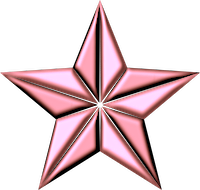
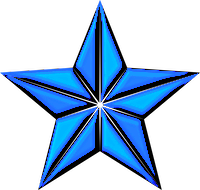
Add files via upload

diff --git a/main.css b/main.css
@@ -780,27 +780,27 @@ input[type=submit]:hover {
 }
 
 .website {
-    color: white;
+    color: #0ce;
     width: 75%;
     font-size: 25px;
-    background: #600;
+    background: #000;
     margin: -15px auto;
-    border-radius: 20px;
     padding: 20px;
-    box-shadow: 2px 4px 6px #000;
-    border: 2px solid #000;
+    border: 5px double #b00;
+    border-radius: 15px;
 }
 
 .website h1{
-        font-size: 34px;
-        text-align: center;
-        background: transparent;
-        box-shadow: none;
-        padding: 10px 0 0;
-        text-decoration: underline;
-        text-shadow: 2px 2px 0px #000;
-        text-underline-position: under;
-    }
+    color: #d00;
+    font-size: 34px;
+    text-align: center;
+    background: transparent;
+    box-shadow: none;
+    padding: 10px 0 0;
+    text-decoration: underline;
+    text-shadow: 1px 1px 0px #fff;
+    text-underline-position: under;
+}
 
 .website h2{
     font-family: 'federant';
@@ -811,7 +811,39 @@ input[type=submit]:hover {
     width: 100%;
     display: flex;
     justify-content: center;
-    margin-bottom: 50px;
+    margin-bottom: 100px;
+}
+
+.stars{
+    width: 100%;
+    display: flex;
+    flex-direction: row;
+    align-items: center;
+    justify-content: center;
+    float: left;
+    margin-top: -70px;
+}
+
+.star-1, .star-3{
+    width: 60px;
+    height: 60px;
+    margin-top: 20px;
+}
+
+.star-2{
+    width: 75px;
+    height: 75px;
+    z-index: 9;
+}
+
+.star-3{
+    margin-left: -25px;
+    transform: rotate(25deg)
+}
+
+.star-1{
+    margin-right: -25px;
+    transform: rotate(-25deg)
 }
 
 .star{
@@ -848,7 +880,7 @@ input[type=submit]:hover {
 
 .items{
     text-align: left;
-    margin: 50px auto;
+    margin: 50px auto 75px;
     width: 75%;
     background: #046;
     padding: 10px 25px;
@@ -1109,6 +1141,8 @@ h6{
     .services{
         margin: 175px 0 75px 0;
     }
+    
+    
 }
 
 /*=======================================*/
@@ -1125,6 +1159,36 @@ h6{
     #Btn,
     article {
         display: none;
+    }
+    
+    .plans{
+        width: 90%;
+        margin: auto;
+    }
+    .prime{
+        margin-bottom: 100px;
+    }
+    
+    .stars{
+        margin-top: -60px;
+    }
+    
+    .star-1, .star-3{
+        width: 40px;
+        height: 40px;
+    }
+    
+    .star-2{
+        width: 50px;
+        height: 50px;
+    }
+    
+    .star-1{
+        margin-right: -15px;
+    }
+    
+    .star-3{
+        margin-left: -15px;
     }
     
     .contentBox{
@@ -1274,7 +1338,7 @@ h6{
         box-shadow: none;
         padding: 20px 0;
         text-decoration: underline;
-        text-shadow: 2px 2px 0px #000;
+        text-shadow: .5px .5px 0px #fff;
         text-underline-position: under;
     }
     
@@ -1376,6 +1440,10 @@ h6{
         box-shadow: none;
     }
     
+    .cafe{
+        margin-bottom: 50px;
+    }
+    
     #Btn {
         font-size: 8px;
         width: 100px;
@@ -1458,7 +1526,7 @@ h6{
 
 @media (min-width: 1000px) and (max-width: 1200px) {
     li{
-        margin: 0 20px;
+        margin: 0 15px;
         font-size: 18px;   
     }
     
@@ -1477,3 +1545,18 @@ h6{
         margin-bottom: 50px;
     }
 }
+
+@media (min-width: 1200px){
+    li{
+        margin-left: 28px;
+    }
+}
+
+@media (min-width: 1300px){
+    li a{
+        margin-left: 28px;
+    }
+}
+
+
+    

diff --git a/index.html b/index.html
@@ -8,8 +8,8 @@
     <meta property="og:image:type" content="image/png" />
     <meta property="og:image:width" content="400" />
     <meta property="og:image:height" content="300" />
-    <meta property="og:image" content="https://i.ibb.co/RCjm4by/BattBros.png" />
-    <meta property="og:image:secure_url" content="https://i.ibb.co/RCjm4by/BattBros.png" />
+    <meta property="og:image" content="https://i.ibb.co/cCVS5T1/Menu-Logo-Grdnt.png" />
+    <meta property="og:image:secure_url" content="https://i.ibb.co/cCVS5T1/Menu-Logo-Grdnt.png" />
     <meta name="keywords" content="Web Development">
     <meta name="viewport" content="width=device-width, initial-scale=1.0" />
     <meta charset="utf-8">
@@ -18,7 +18,7 @@
     <meta name="description" content="Online Presence Management">
     <link rel="stylesheet" href="main.css">
     <link rel="shortcut icon" type="image/png" href="MENU=.png">
-    <link href="https://fonts.googleapis.com/css?family=Federant|Akronim|Kaushan+Script|Fugaz+One|Righteous|Orbitron|Kanit|Quintessential" rel="stylesheet">
+    <link href="https://fonts.googleapis.com/css?family=Federant|Lexend+Deca|Kaushan+Script|Fugaz+One|Righteous|Orbitron|Kanit|Quintessential" rel="stylesheet">
     <meta name="viewport" content="width=device-width, initial-scale=1">
     <link rel="stylesheet" href="https://unpkg.com/aos@next/dist/aos.css" />
 </head>
@@ -34,7 +34,7 @@
 
     <div id="mySidenav" class="sidenav">
         <a href="javascript:void(0)" class="closebtn" onclick="closeNav()">&#10754;</a>
-        <a style="text-decoration: underline" href="index.html">Home</a>
+        <a style="text-decoration: underline; text-underline-position: under;" href="index.html">Home</a>
         <a href="services.html">Services</a>
         <a href="contact.html">Contact</a>
     </div>
@@ -60,7 +60,7 @@
 
         <div data-aos="fade-right" data-aos-duration="800" data-aos-anchor-placement="top-bottom" class="logo"><img src="MENU.png"></div>
 
-        <button id="Btn" data-aos="fade-down" data-aos-duration="800" data-aos-anchor-placement="top-bottom"><a href="#openModal99">Free Consultation</a></button>
+        <button id="Btn" data-aos="fade-down" data-aos-duration="800" data-aos-anchor-placement="top-bottom"><a href="tel:17573255866">Free Consultation</a></button>
         
         <ul>
             

diff --git a/contact.html b/contact.html
@@ -8,8 +8,8 @@
     <meta property="og:image:type" content="image/png" />
     <meta property="og:image:width" content="400" />
     <meta property="og:image:height" content="300" />
-    <meta property="og:image" content="https://i.ibb.co/RCjm4by/BattBros.png" />
-    <meta property="og:image:secure_url" content="https://i.ibb.co/RCjm4by/BattBros.png" />
+    <meta property="og:image" content="https://i.ibb.co/cCVS5T1/Menu-Logo-Grdnt.png" />
+    <meta property="og:image:secure_url" content="https://i.ibb.co/cCVS5T1/Menu-Logo-Grdnt.png" />
     <meta name="keywords" content="Web Development">
     <meta name="viewport" content="width=device-width, initial-scale=1.0" />
     <meta charset="utf-8">
@@ -18,7 +18,7 @@
     <meta name="description" content="Online Presence Management">
     <link rel="stylesheet" href="main.css">
     <link rel="shortcut icon" type="image/png" href="MENU=.png">
-    <link href="https://fonts.googleapis.com/css?family=Federant|Akronim|Kaushan+Script|Fugaz+One|Righteous|Orbitron|Kanit|Quintessential" rel="stylesheet">
+    <link href="https://fonts.googleapis.com/css?family=Federant|Lexend+Deca|Kaushan+Script|Fugaz+One|Righteous|Orbitron|Kanit|Quintessential" rel="stylesheet">
     <meta name="viewport" content="width=device-width, initial-scale=1">
     <link rel="stylesheet" href="https://unpkg.com/aos@next/dist/aos.css" />
 </head>
@@ -36,7 +36,7 @@
         <a href="javascript:void(0)" class="closebtn" onclick="closeNav()">&#10754;</a>
         <a href="index.html">Home</a>
         <a href="services.html">Services</a>
-        <a style="text-decoration: underline" href="contact.html">Contact</a>
+        <a style="text-decoration: underline; text-underline-position: under;" href="contact.html">Contact</a>
     </div>
 
     <script>
@@ -59,6 +59,8 @@
         </div>
 
         <div data-aos="fade-right" data-aos-duration="800" data-aos-anchor-placement="top-bottom" class="logo"><img src="MENU.png"></div>
+        
+        <button id="Btn" data-aos="fade-down" data-aos-duration="800" data-aos-anchor-placement="top-bottom"><a href="tel:17573255866">Free Consultation</a></button>
         
         <ul>
             

diff --git a/services.html b/services.html
@@ -8,8 +8,8 @@
     <meta property="og:image:type" content="image/png" />
     <meta property="og:image:width" content="400" />
     <meta property="og:image:height" content="300" />
-    <meta property="og:image" content="https://i.ibb.co/RCjm4by/BattBros.png" />
-    <meta property="og:image:secure_url" content="https://i.ibb.co/RCjm4by/BattBros.png" />
+    <meta property="og:image" content="https://i.ibb.co/cCVS5T1/Menu-Logo-Grdnt.png" />
+    <meta property="og:image:secure_url" content="https://i.ibb.co/cCVS5T1/Menu-Logo-Grdnt.png" />
     <meta name="keywords" content="Web Development">
     <meta name="viewport" content="width=device-width, initial-scale=1.0" />
     <meta charset="utf-8">
@@ -18,7 +18,7 @@
     <meta name="description" content="Online Presence Management">
     <link rel="stylesheet" href="main.css">
     <link rel="shortcut icon" type="image/png" href="MENU=.png">
-    <link href="https://fonts.googleapis.com/css?family=Federant|Akronim|Kaushan+Script|Fugaz+One|Righteous|Orbitron|Kanit|Quintessential" rel="stylesheet">
+    <link href="https://fonts.googleapis.com/css?family=Federant|Lexend+Deca|Kaushan+Script|Fugaz+One|Righteous|Orbitron|Kanit|Quintessential" rel="stylesheet">
     <meta name="viewport" content="width=device-width, initial-scale=1">
     <link rel="stylesheet" href="https://unpkg.com/aos@next/dist/aos.css" />
 </head>
@@ -111,6 +111,13 @@
     </div>
     
     <div data-aos="zoom-in-up" data-aos-duration="3000" class="website">
+        
+        <div data-aos="zoom-out-up" data-aos-delay="800" data-aos-duration="2000" class="stars">
+            
+            <img class="star-1" src="Star-1.png">
+            <img data-aos="zoom-in-up" data-aos-duration="3000" data-aos-delay="300" class="star-2" src="Star-2.png">
+            <img class="star-3" src="Star-3.png">
+        </div>
     
         <h2>Each site will have its own special requirements so the plans below are meant to give an idea of what we offer and their costs. We much prefer to build each plan for your individual needs so contact our team and let us build a plan for you.</h2>
     
